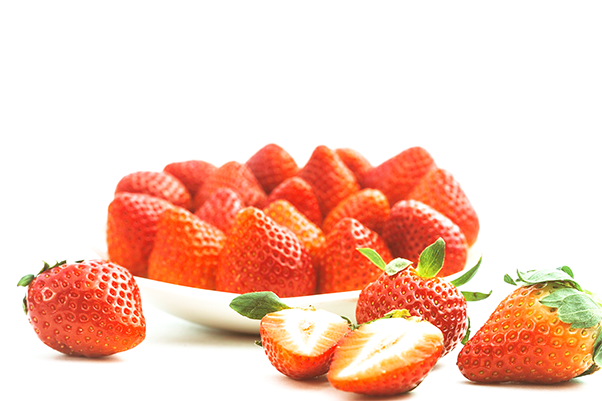
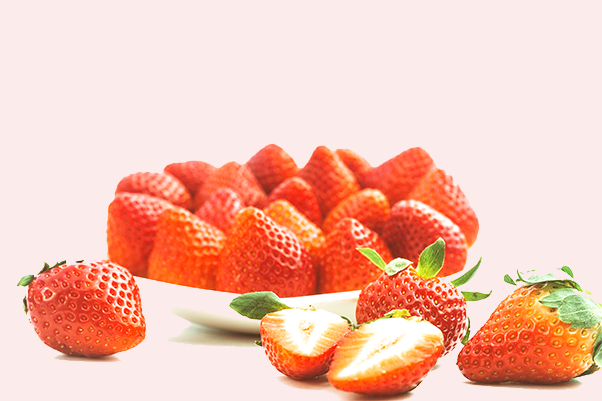
contacts styling

diff --git a/source/index.html b/source/index.html
@@ -329,15 +329,17 @@
           </ul>
         </section>
         <section class="contacts">
-          <h2 class="contacts__title">Контакты</h2>
-          <p class="contacts__text">Остались вопросы?</p>
-          <p class="contacts__intsruction">Заполните форму ниже и наш кондитер свяжется с Вами</p>
-          <form class="feedback-form" action="#" method="get">
-            <input class="feedback-form__input feedback-form__input--name" type="text" name="yourname" placeholder="Ваше имя">
-            <input class="feedback-form__input feedback-form__input--email" type="email" name="youremail" placeholder="Email адрес">
-            <textarea class="feedback-form__input feedback-form__input--question" name="yourquestion">Ваш вопрос</textarea>
-            <button class="feedback-form__button button-rose" type="submit" name="send-button">Отправить</button>
-          </form>
+          <div class="contacts__flex-box">
+            <h2 class="contacts__title">Контакты</h2>
+            <p class="contacts__text">Остались вопросы?</p>
+            <p class="contacts__intsruction">Заполните форму ниже и наш кондитер <span class="contacts__new-line">свяжется с Вами</span></p>
+            <form class="feedback-form" action="#" method="get">
+              <input class="feedback-form__input feedback-form__input--name" type="text" name="yourname" placeholder="Ваше имя">
+              <input class="feedback-form__input feedback-form__input--email" type="email" name="youremail" placeholder="Email адрес">
+              <textarea class="feedback-form__input feedback-form__input--question" name="yourquestion">Ваш вопрос</textarea>
+              <button class="feedback-form__button button-rose" type="submit" name="send-button">Отправить</button>
+            </form>
+          </div>
           <ul class="contacts__list">
             <li class="contacts__tel">Или позвоните по телефону: <br> <a class="contacts__link" href="tel:+79068999296">+7 906 899 92 96</a></li>
             <li class="contacts__email">Наша почта: <a class="contacts__link" href="mailto:bakerybypavel@mail.ru">bakerybypavel@mail.ru</a></li>

diff --git a/source/less/blocks/contacts.less b/source/less/blocks/contacts.less
@@ -80,3 +80,32 @@
     }
   }
 }
+
+@media (min-width: @tablet-width) {
+  .contacts {
+    display: flex;
+    justify-content: space-between;
+    background-image: url("../img/bg-straberry-tablet.png");
+    width: 675px;
+    margin: 0 auto;
+  }
+
+  .contacts__title {
+    font-size: 28px;
+    text-align: left;
+  }
+
+  .contacts__text {
+    font-size: 17px;
+    margin-bottom: 16px;
+  }
+
+  .contacts__intsruction {
+    font-size: 13px;
+    margin-bottom: 13px;
+  }
+
+  .contacts__new-line {
+    display: block;
+  }
+}

diff --git a/source/less/blocks/feedback-form.less b/source/less/blocks/feedback-form.less
@@ -16,7 +16,7 @@
     height: 120px;
     padding-top: 12px;
     margin-bottom: 16px;
-  }  
+  }
 
   &:hover {
     border: none;
@@ -32,4 +32,10 @@
   display: block;
   width: 181px;
   margin: 0 auto;
+}
+
+@media (min-width: @tablet-width) {
+  .feedback-form {
+    width: 346px;
+  }
 }

diff --git a/source/less/blocks/instruction.less b/source/less/blocks/instruction.less
@@ -24,6 +24,7 @@
     background-position: left top;
     padding-top: 0;
     padding-bottom: 65px;
+    margin-bottom: 45px;
   }
 
   .instruction__title {
